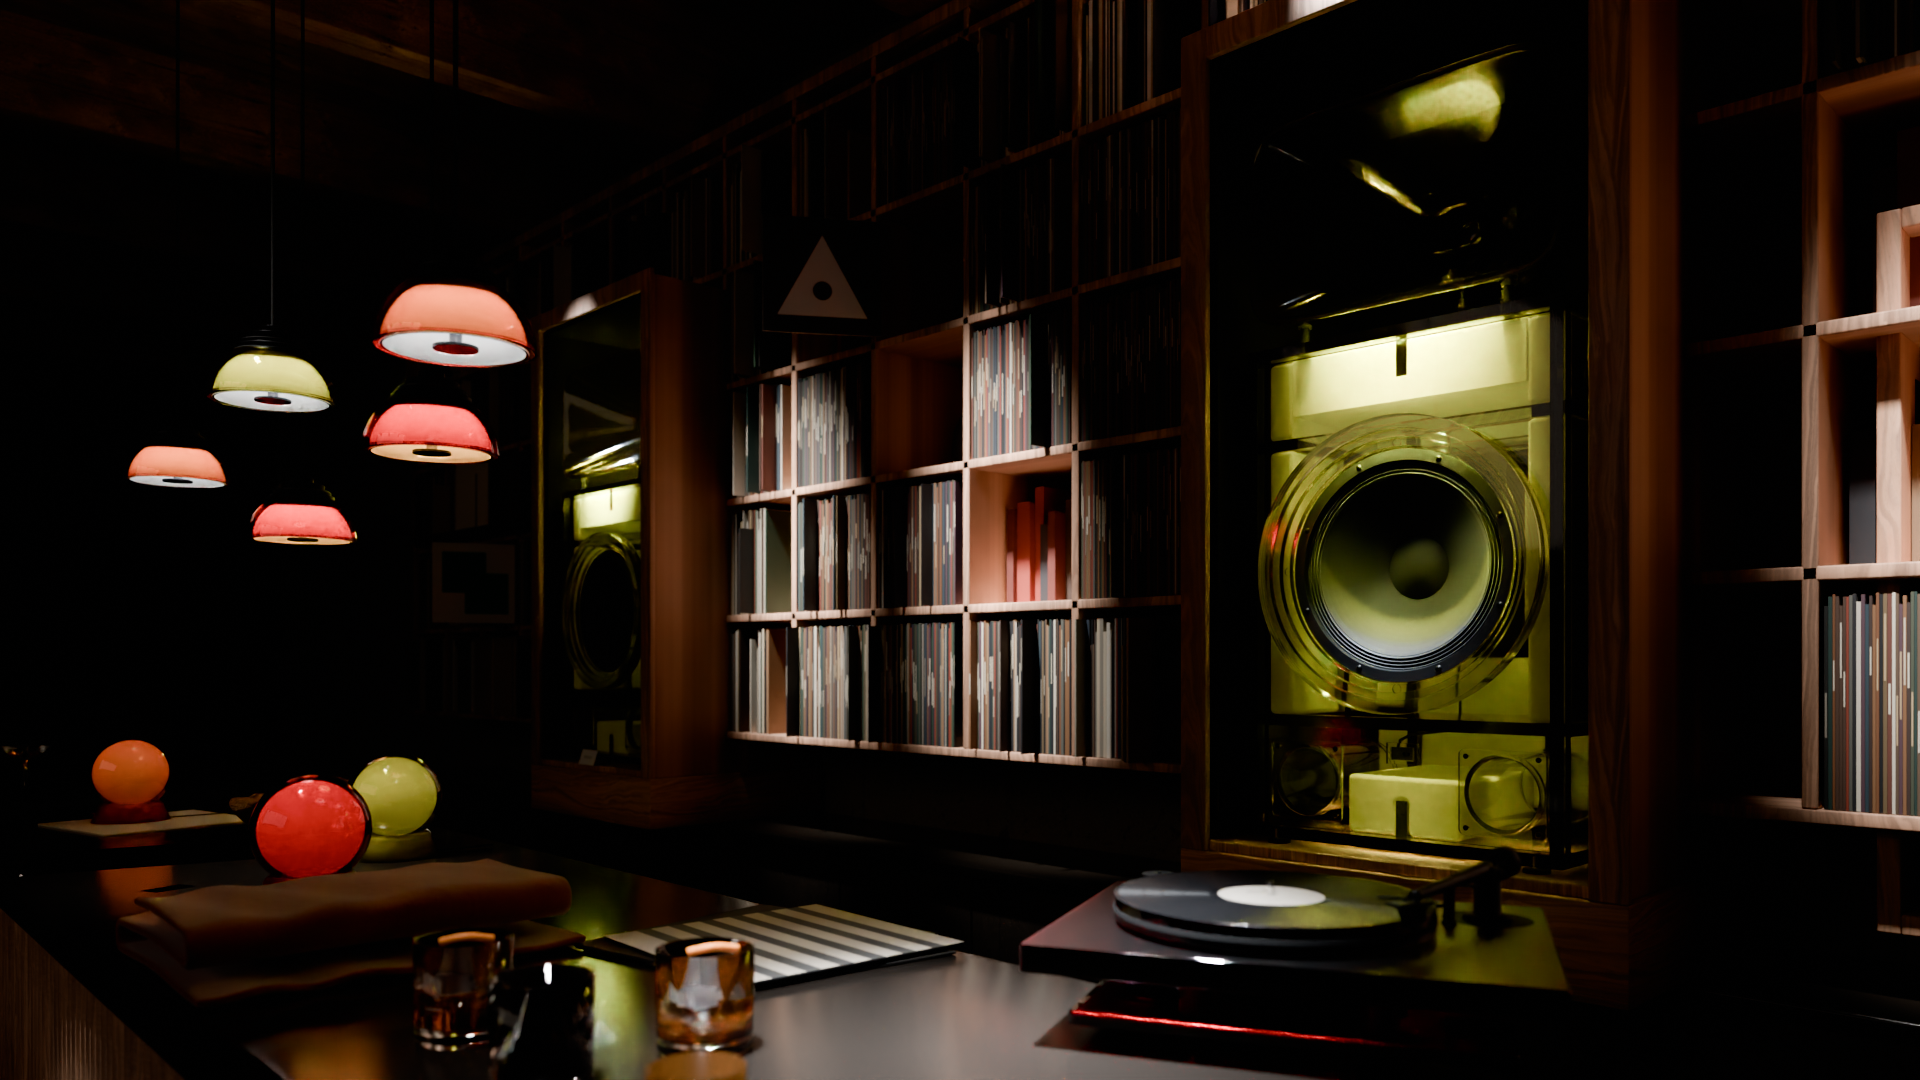
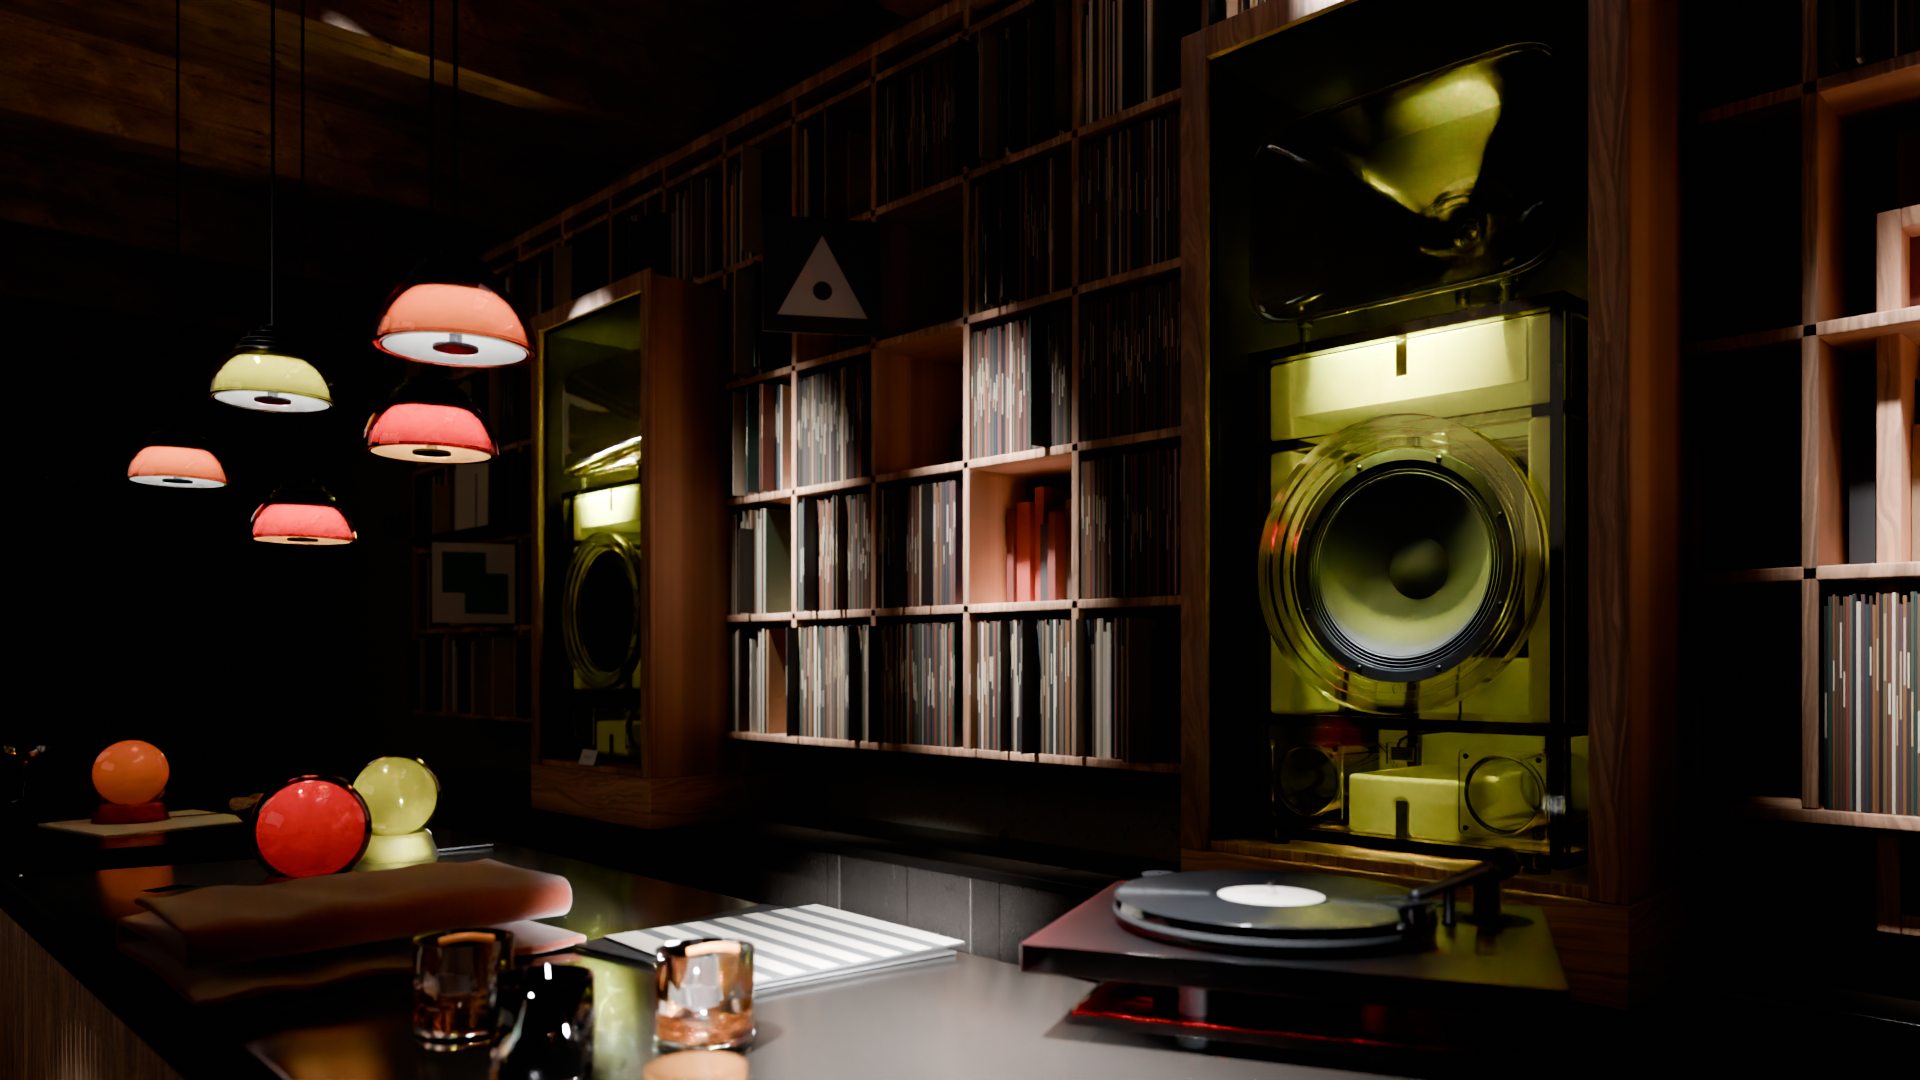
planet bar round 4: bar-backbar (horn card, far pool back, Mantle's plinth lit through, warm fill left); measured
Claude-Session: https://claude.ai/code/session_01CsZ9sPVytkpnrfV4BgTgfB

diff --git a/renders/2026-11-11/barkhorn/product/planet-bar/MEASURED.md b/renders/2026-11-11/barkhorn/product/planet-bar/MEASURED.md
@@ -30,3 +30,17 @@ Exposure EV -2.0 in the wide (was -1.5); core-bar-table keeps EV -1 and its room
 
 Grey levels are the frame's 0-1 luminance on a 1200 px copy (cabinet top, cabinet side, cone, and a patch of the record wall
 between the bays).
+
+## Round 4 (2026-11-11/12, after the coordinator's 22:32 notes)
+
+| what | frame | measured |
+|---|---|---|
+| Core Ember centre (h, s, v) | core-bar-table | 5.0, 0.67, 0.91 (finals 5.0, 0.64, 0.91) |
+| near Tropos cabinet face against the wall; cone | bar-backbar | face 1.8x the wall; cone 0.20 |
+| audit (reaudit.py) | both | hidden 0, equipment 0 |
+
+The ball's pale rectangle was the house fill's reflection, a 3 m disc cut flat by the ceiling: in core-bar-table it
+is a 1.6 m disc inside the room now (a round soft highlight, as on the lamps lane's own Core). The black square was
+the book of matches, out of that frame. The near horn reads by a graduated warm card over its bay, seen only in
+reflections (declared in the emitters file). Mantle's plinth is clear Ember acrylic in layers: a narrow low head from
+past the frame's right edge passes through it.
